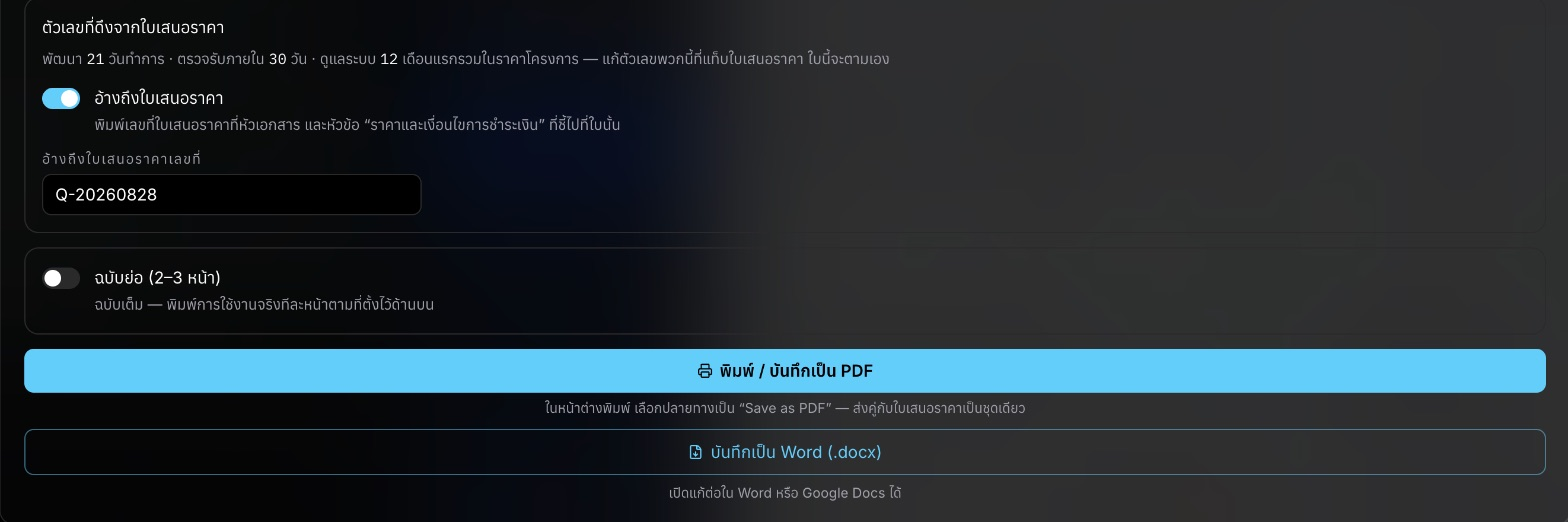
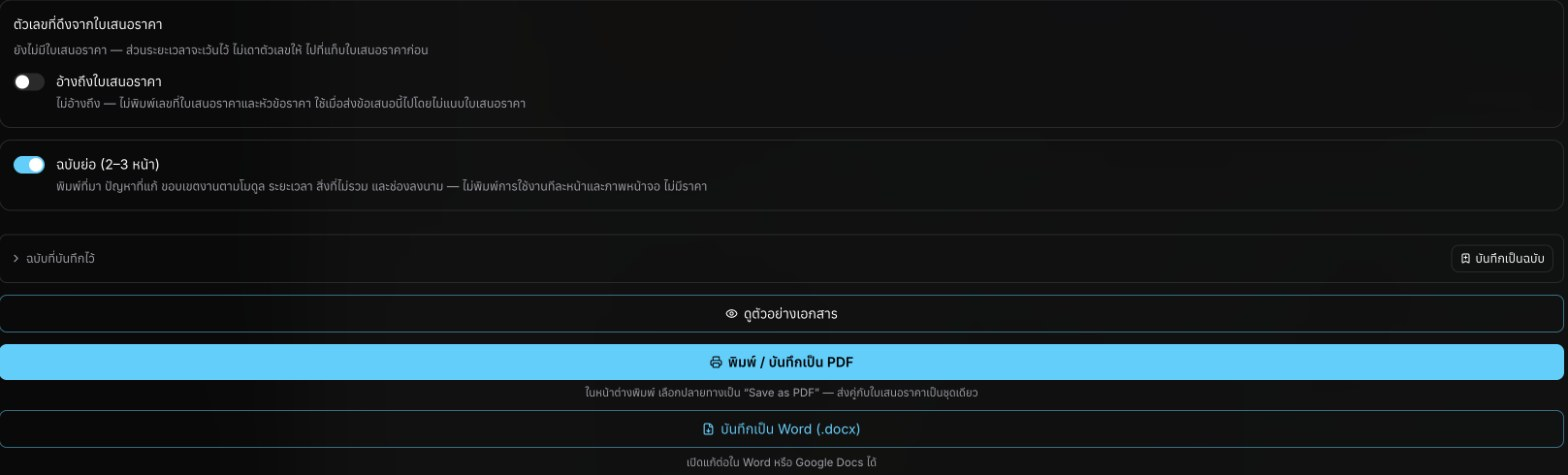
docs(guide): show adding parts and printing a proposal without approval
Pictures for 0.129.6 and 0.129.7, taken from production after the release:

- proposal-modules-add.jpg (new): "เพิ่มระบบย่อย", "เพิ่มโมดูล" and the
  points box, replacing the text-only tip.
- proposal-print.jpg: the panel's end as it is now, with the preview
  button and the print button open without approval.
- approvals, review-desk, approver-desk: the page header now reads
  "ใบเสนอราคาที่ส่งมาให้คุณตรวจ" (the live header, scaled over the old one).

Claude-Session: https://claude.ai/code/session_01QMonaDuRmTEE6DLuTsRncp

diff --git a/lib/guide.ts b/lib/guide.ts
@@ -1432,29 +1432,46 @@ export const GUIDE: readonly GuideSection[] = [
         },
       },
       {
-        kind: "tip",
-        title: "เพิ่มหัวข้อเอง",
-        text: "กด “เพิ่มระบบย่อย” ใต้โมดูล หรือ “เพิ่มโมดูล” ท้ายรายการ ระบบใส่เลขหัวข้อ เช่น 3.4 ให้เอง ไม่ต้องพิมพ์เลขลงในช่องข้อสรุป ช่องข้อสรุปพิมพ์หนึ่งข้อต่อบรรทัด ระบบใส่จุดหน้าข้อให้ และบรรทัดว่างจะไม่ถูกพิมพ์",
+        kind: "figure",
+        figure: {
+          src: "/guide/proposal-modules-add.jpg",
+          width: 1568,
+          height: 300,
+          caption: "เพิ่มระบบย่อยและโมดูลเอง",
+          layout: "wide",
+          marks: [
+            { n: 1, x: 11.9, y: 76.3 },
+            { n: 2, x: 7.2, y: 92.7 },
+            { n: 3, x: 93.8, y: 46 },
+          ],
+          legend: [
+            { n: 1, text: "“เพิ่มระบบย่อย” ต่อท้ายโมดูลนั้น ระบบใส่เลขหัวข้อให้เอง เช่น 9.2 ไม่ต้องพิมพ์เลขลงในช่องข้อสรุป" },
+            { n: 2, text: "“เพิ่มโมดูล” ต่อท้ายรายการ" },
+            { n: 3, text: "ข้อสรุปพิมพ์หนึ่งข้อต่อบรรทัด ระบบใส่จุดหน้าข้อให้ บรรทัดว่างจะไม่ถูกพิมพ์" },
+          ],
+        },
       },
       {
         kind: "figure",
         figure: {
           src: "/guide/proposal-print.jpg",
           width: 1568,
-          height: 522,
-          caption: "ส่วนท้ายของข้อเสนอโครงการ",
+          height: 475,
+          caption: "ส่วนท้ายของข้อเสนอโครงการ: พิมพ์ได้เลยโดยไม่ต้องอนุมัติ",
           layout: "wide",
           marks: [
-            { n: 1, x: 15.5, y: 18.5 },
-            { n: 2, x: 15.5, y: 52.4 },
-            { n: 3, x: 41, y: 70.6 },
-            { n: 4, x: 41, y: 86 },
+            { n: 1, x: 11.5, y: 17.1 },
+            { n: 2, x: 11.4, y: 34.5 },
+            { n: 3, x: 43.5, y: 66.1 },
+            { n: 4, x: 43.5, y: 76.2 },
+            { n: 5, x: 43.5, y: 90.3 },
           ],
           legend: [
             { n: 1, text: "“อ้างถึงใบเสนอราคา” พิมพ์เลขที่ใบเสนอราคาและหัวข้อราคาให้อ้างอิงกัน" },
             { n: 2, text: "“ฉบับย่อ (2–3 หน้า)” สำหรับส่งเบื้องต้น" },
-            { n: 3, text: "“พิมพ์ / บันทึกเป็น PDF” ส่งคู่กับใบเสนอราคาเป็นชุดเดียว (ข้อเสนอโครงการไม่ต้องอนุมัติ)" },
-            { n: 4, text: "“บันทึกเป็น Word (.docx)” เปิดแก้ไขต่อใน Word หรือ Google Docs" },
+            { n: 3, text: "“ดูตัวอย่างเอกสาร” ดูหน้าตาก่อนพิมพ์ ยังไม่ออกเลขที่เอกสาร" },
+            { n: 4, text: "“พิมพ์ / บันทึกเป็น PDF” กดได้เลย ไม่ต้องส่งอนุมัติ ส่งคู่กับใบเสนอราคาเป็นชุดเดียว" },
+            { n: 5, text: "“บันทึกเป็น Word (.docx)” เปิดแก้ไขต่อใน Word หรือ Google Docs" },
           ],
         },
       },
